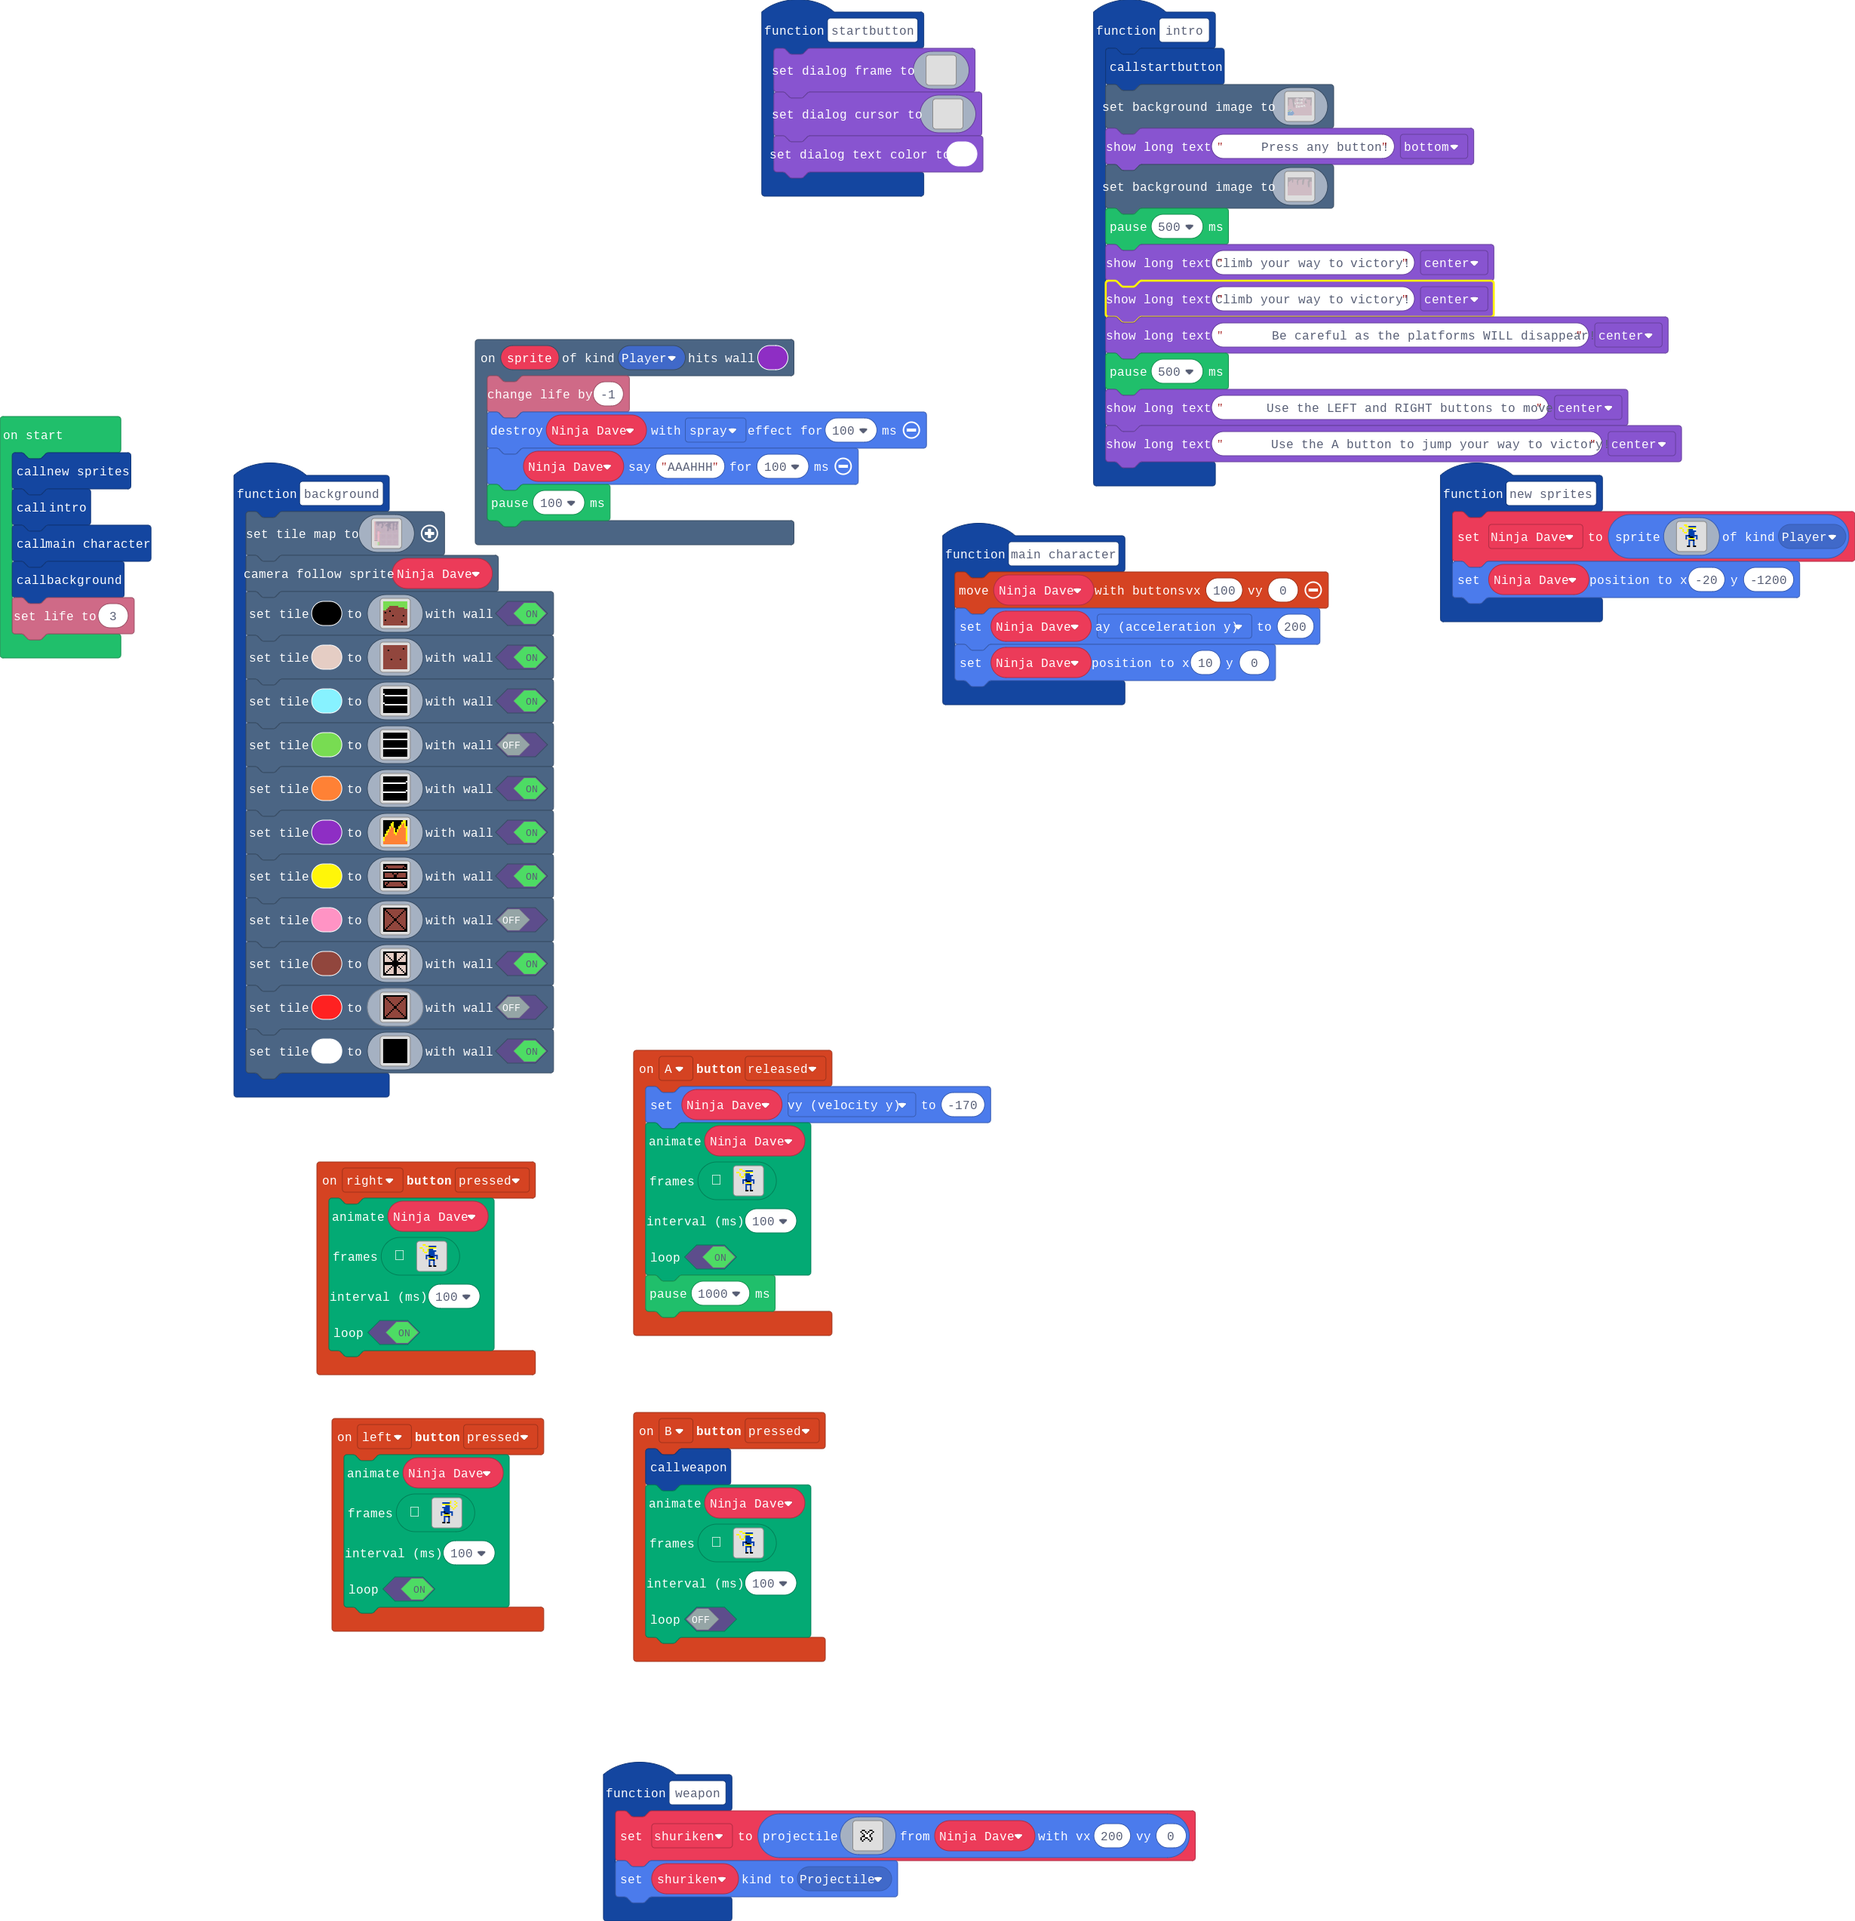
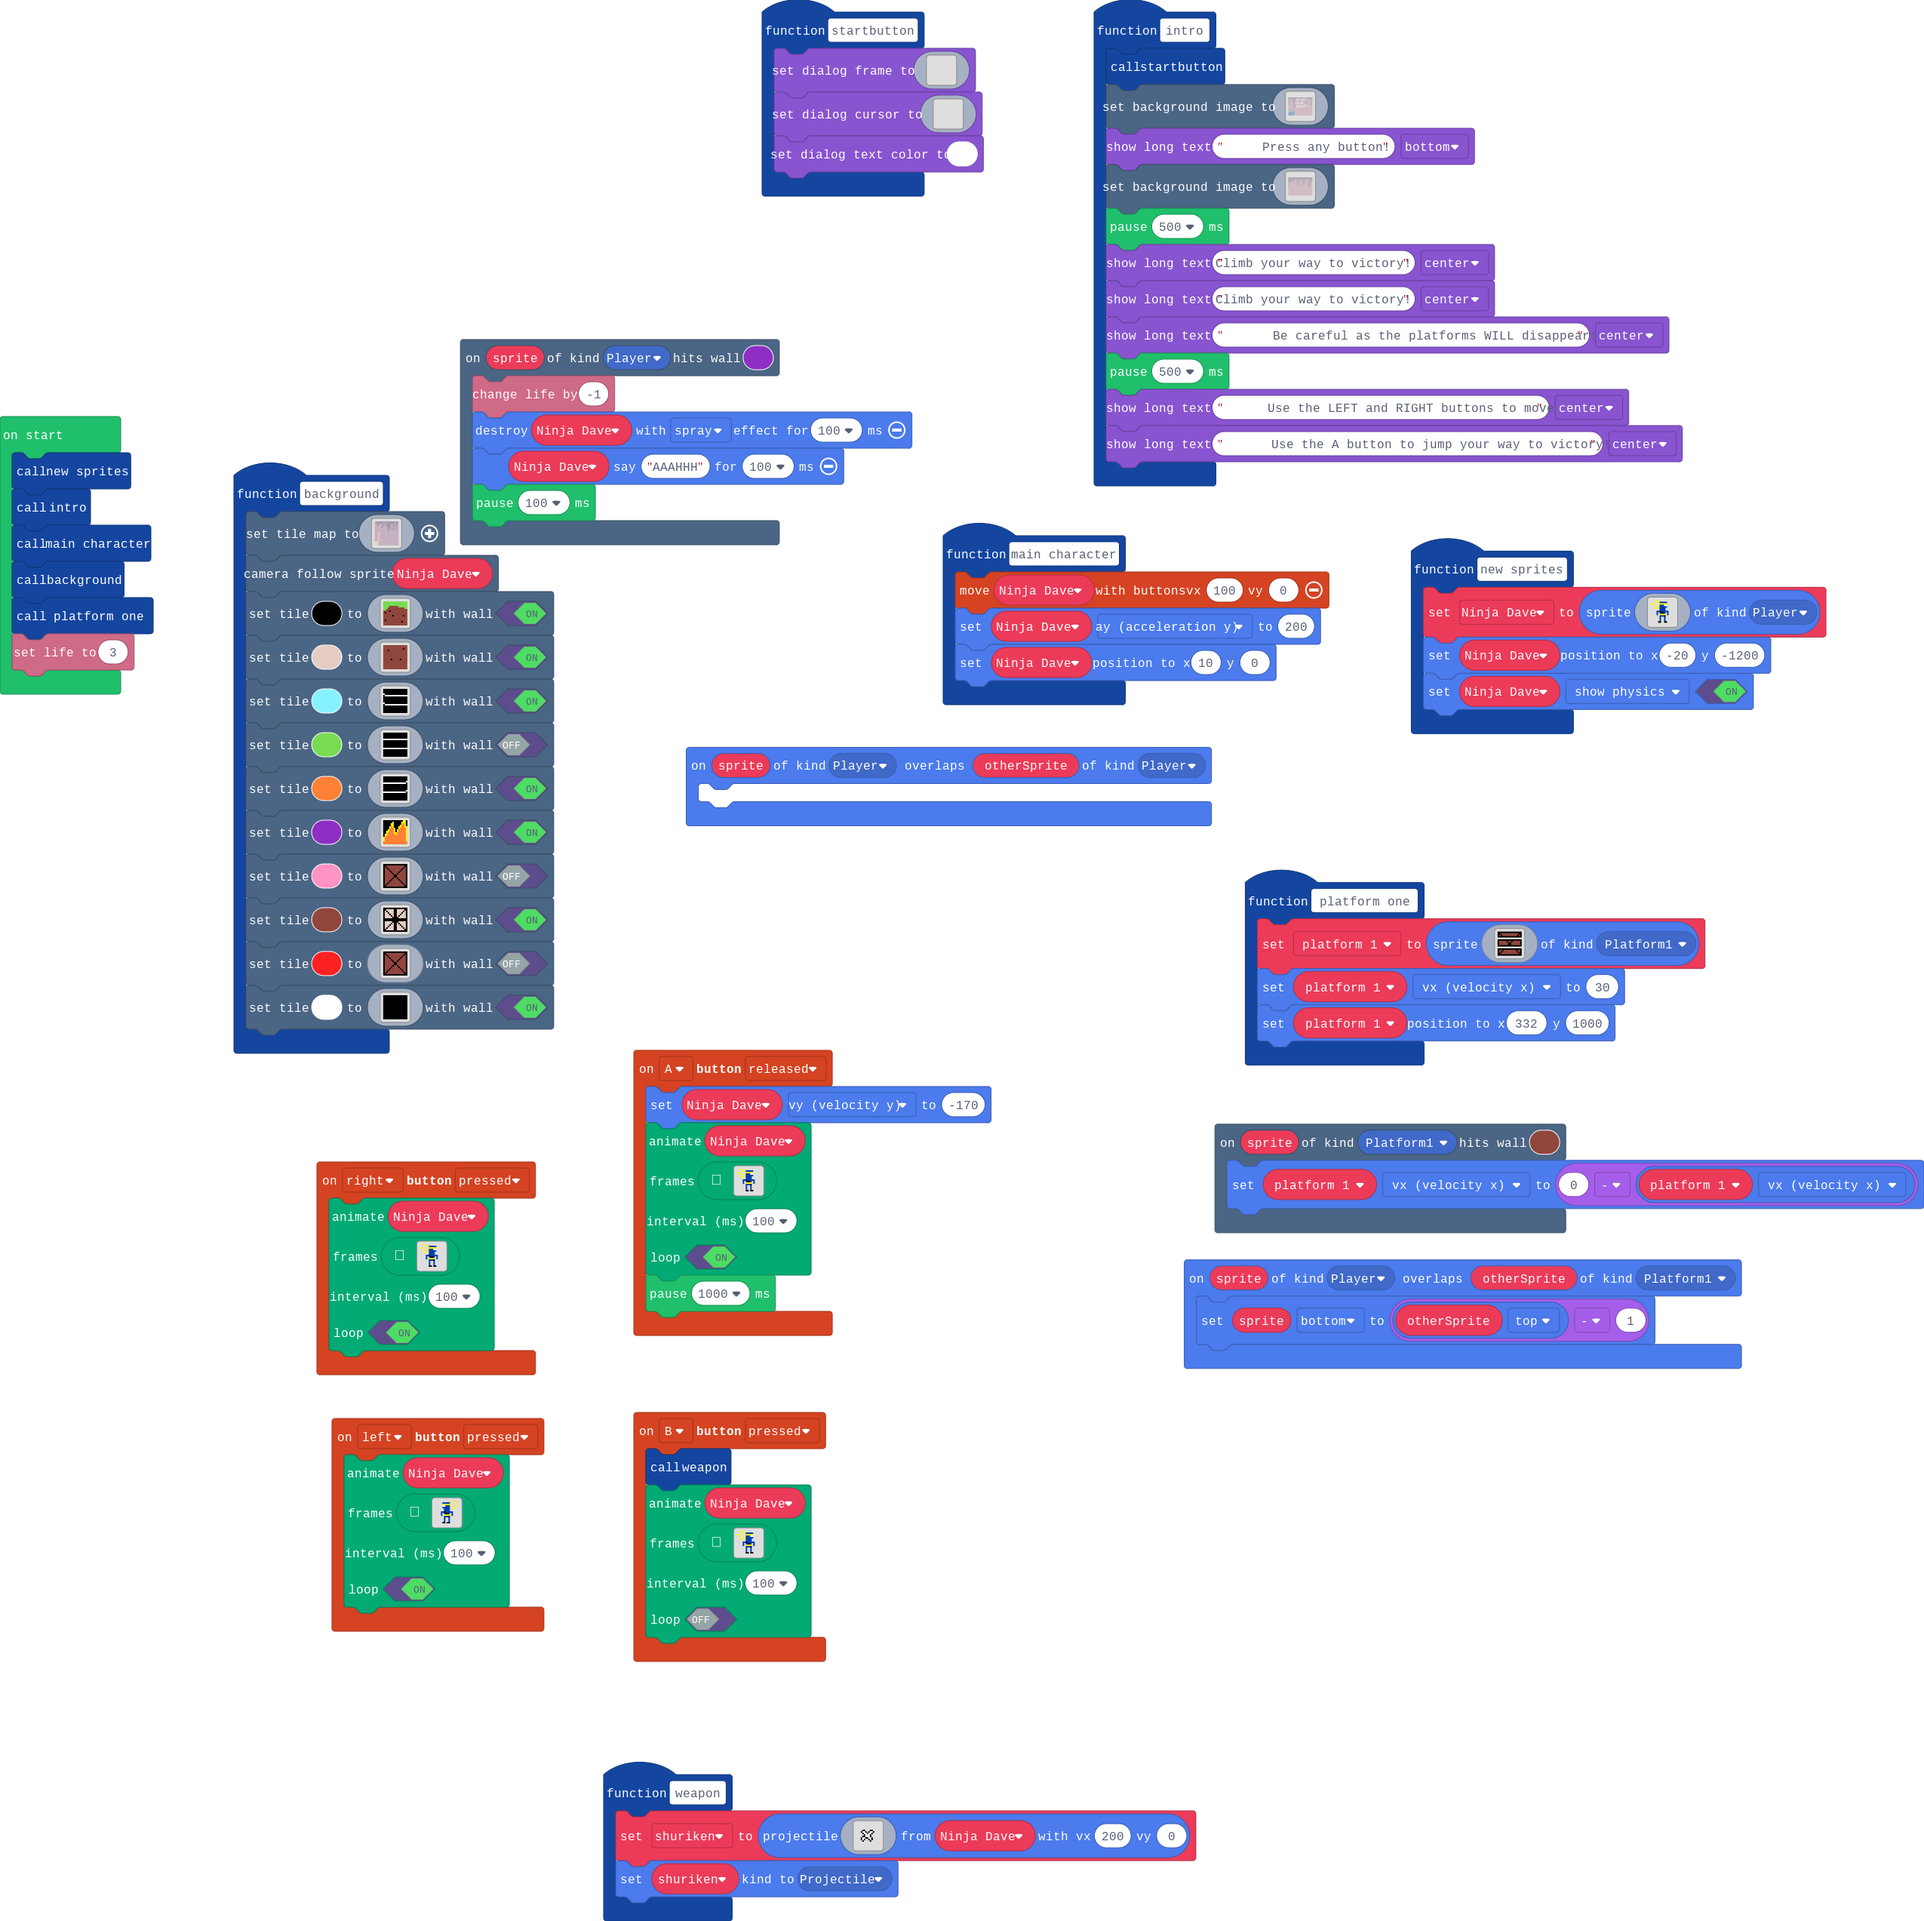
changes

diff --git a/main.ts b/main.ts
@@ -1,3 +1,31 @@
+namespace SpriteKind {
+    export const Platform1 = SpriteKind.create()
+}
+scene.onHitTile(SpriteKind.Platform1, 14, function (sprite) {
+    platform_1.vx = 0 - platform_1.vx
+})
+function platform_one () {
+    platform_1 = sprites.create(img`
+f f f f f f f f f f f f f f f f 
+f f e e e e e e e e e e e e f f 
+f e f e e e e e e e e e e f e f 
+f f f f f f f f f f f f f f f f 
+1 1 1 1 1 1 1 1 1 1 1 1 1 1 1 1 
+f f f f f f f f f f f f f f f f 
+f e e e e e f e e f e e e e e f 
+f e e e e e e f f e e e e e e f 
+f e e e e e e f f e e e e e e f 
+f f f f f f f f f f f f f f f f 
+1 1 1 1 1 1 1 1 1 1 1 1 1 1 1 1 
+f f f f f f f f f f f f f f f f 
+f e e f e e e e e e e e f e e f 
+f e f e e e e e e e e e e f e f 
+f f e e e e e e e e e e e e f f 
+f f f f f f f f f f f f f f f f 
+`, SpriteKind.Platform1)
+    platform_1.vx = 30
+    platform_1.setPosition(332, 1000)
+}
 function main_character () {
     controller.moveSprite(Ninja_Dave, 100, 0)
     Ninja_Dave.ay = 200
@@ -604,34 +632,34 @@ function background () {
 2 2 1 b b b b b b b b b e 3 3 3 3 3 3 3 3 3 3 3 3 3 3 7 b b b b b b b b b b b b b b b b b b b b b b b b b b b b b b b b b b b b b b b b b b b b b b b b b b b b b b b b b b b b b b b b b b b b b b b b 
 2 2 1 b b b b b b b b b e 3 3 3 3 3 3 3 3 e e e e e e 7 b b b b b b b b b b b b b b b b b b b b b b b b b b b b b b b b b b b b b b b b b b b b b b b b b b b b b b b b b b b b b b b b b b b b b b b b 
 2 2 1 b b b b b b b b b e 3 3 3 3 3 3 3 3 e b b b b b b b b b b b b b b b b b b b b b b b b b b b b b b b b b b b b b b b b b b b b b b b b b b b b b b b b b b b b b b b b b b b b b b b b b b b b b b 
-2 2 1 b b b b b b b b b e 3 3 3 3 3 3 3 5 e b b b b b b b b b b b b b b b b b b b b b b b b b b b b b b b b b b b b b b b b b b b b b b b b b b b b b b b b b b b b b b b b b b b b b b b b b b b b b b 
-2 2 1 b b b b b b b b b e 3 3 3 3 3 3 3 3 e b b b b b b b b b b b b b b b b b b b b b b b b b b b b b b b b b b b b b b b b b b b b b b b b b b b b b b b b b b b b b b b b b b b b b b b b b b b b b b 
-2 2 1 b b b b b b b b b e 5 5 3 3 3 3 3 3 e b b b b b b b b b b b b b b b b b b b b b b b b b b b b b b b b b b b b b b b b b b b b b b b b b b b b b b b b b b b b b b b b b b b b b b b b b b b b b b 
-2 2 1 b b b b b b b b b e 3 3 3 3 3 3 3 3 e b b b b b b b b b b b b b b b b b b b b b b b b b b b b b b b b b b b b b b b b b b b b b b b b b b b b b b b b b b b b b b b b b b b b b b b b b b b b b b 
-2 2 1 b b b b b b b b b e 3 3 3 3 3 3 3 3 e b b b b b b b b b b b b b b b b b b b b b b b b b b b b b b b b b b b b b b b b b b b b b b b b b b b b b b b b b b b b b b b b b b b b b b b b b b b b b b 
-2 2 1 b b b b b b b b b e 5 5 3 3 3 3 3 3 e b b b b b b b b b b b b b b b b b b b b b b b b b b b b b b b b b b b b b b b b b b b b b b b b b b b b b b b b b b b b b b b b b b b b b b b b b b b b b b 
 2 2 1 b b b b b b b b b e 3 3 3 3 3 3 3 3 e b b b b b b b b b b b b b b b b b b b b b b b b b b b b b b b b b b b b b b b b b b b b b b b b b b b b b b b b b b b b b b b b b b b b b b b b b b b b b b 
 2 2 1 b b b b b b b b b e 3 3 3 3 3 3 3 3 e b b b b b b b b b b b b b b b b b b b b b b b b b b b b b b b b b b b b b b b b b b b b b b b b b b b b b b b b b b b b b b b b b b b b b b b b b b b b b b 
 2 2 1 b b b b b b b b b e 3 3 3 3 3 3 3 3 e b b b b b b b b b b b b b b b b b b b b b b b b b b b b b b b b b b b b b b b b b b b b b b b b b b b b b b b b b b b b b b b b b b b b b b b b b b b b b b 
-2 2 1 b b b b b b b b b e 3 3 3 3 3 3 3 5 e b b b b b b b b b b b b b b b b b b b b b b b b b b b b b b b b b b b b b b b b b b b b b b b b b b b b b b b b b b b b b b b b b b b b b b b b b b b b b b 
-2 2 1 b b b b b b b b b e 3 3 3 3 3 3 3 3 e b b b b b b b b b b b b b b b b b b b b b b b b b b b b b b b b b b b b b b b b b b b b b b b b b b b b b b b b b b b b b b b b b b b b b b b b b b b b b b 
-2 2 1 b b b b b b b b b e 5 3 3 3 3 3 3 3 e b b b b b b b b b b b b b b b b b b b b b b b b b b b b b b b b b b b b b b b b b b b b b b b b b b b b b b b b b b b b b b b b b b b b b b b b b b b b b b 
-2 2 1 b b b b b b b b b e 3 3 3 3 3 3 3 3 e b b b b b b b b b b b b b b b b b b b b b b b b b b b b b b b b b b b b b b b b b b b b b b b b b b b b b b b b b b b b b b b b b b b b b b b b b b b b b b 
-2 2 1 b b b b b b b b b e 3 3 3 3 3 3 3 3 e b b b b b b b b b b b b b b b b b b b b b b b b b b b b b b b b b b b b b b b b b b b b b b b b b b b b b b b b b b b b b b b b b b b b b b b b b b b b b b 
-2 2 1 b b b b b b b b b e 3 3 3 3 3 3 3 5 e b b b b b b b b b b b b b b b b b b b b b b b b b b b b b b b b b b b b b b b b b b b b b b b b b b b b b b b b b b b b b b b b b b b b b b b b b b b b b b 
 2 2 1 b b b b b b b b b e 3 3 3 3 3 3 3 3 e b b b b b b b b b b b b b b b b b b b b b b b b b b b b b b b b b b b b b b b b b b b b b b b b b b b b b b b b b b b b b b b b b b b b b b b b b b b b b b 
 2 2 1 b b b b b b b b b e 3 3 3 3 3 3 3 3 e b b b b b b b b b b b b b b b b b b b b b b b b b b b b b b b b b b b b b b b b b b b b b b b b b b b b b b b b b b b b b b b b b b b b b b b b b b b b b b 
 2 2 1 b b b b b b b b b e 3 3 3 3 3 3 3 3 e b b b b b b b b b b b b b b b b b b b b b b b b b b b b b b b b b b b b b b b b b b b b b b b b b b b b b b b b b b b b b b b b b b b b b b b b b b b b b b 
-2 2 1 b b b b b b b b b e 5 5 5 3 3 3 3 3 e b b b b b b b b b b b b b b b b b b b b b b b b b b b b b b b b b b b b b b b b b b b b b b b b b b b b b b b b b b b b b b b b b b b b b b b b b b b b b b 
 2 2 1 b b b b b b b b b e 3 3 3 3 3 3 3 3 e b b b b b b b b b b b b b b b b b b b b b b b b b b b b b b b b b b b b b b b b b b b b b b b b b b b b b b b b b b b b b b b b b b b b b b b b b b b b b b 
 2 2 1 b b b b b b b b b e 3 3 3 3 3 3 3 3 e b b b b b b b b b b b b b b b b b b b b b b b b b b b b b b b b b b b b b b b b b b b b b b b b b b b b b b b b b b b b b b b b b b b b b b b b b b b b b b 
 2 2 1 b b b b b b b b b e 3 3 3 3 3 3 3 3 e b b b b b b b b b b b b b b b b b b b b b b b b b b b b b b b b b b b b b b b b b b b b b b b b b b b b b b b b b b b b b b b b b b b b b b b b b b b b b b 
-2 2 1 b b b b b b b b b e 3 3 3 3 3 3 3 5 e b b b b b b b b b b b b b b b b b b b b b b b b b b b b b b b b b b b b b b b b b b b b b b b b b b b b b b b b b b b b b b b b b b b b b b b b b b b b b b 
-2 2 1 b b b b b b b b b e 3 3 3 3 3 3 3 3 e b b b b b b b b b b b b b b b b b b b b b b b b b b b b b b b b b b b b b b b b b b b b b b b b b b b b b b b b b b b b b b b b b b b b b b b b b b b b b b 
-2 2 1 b b b b b b b b b e 5 3 3 3 3 3 3 3 e b b b b b b b b b b b b b b b b b b b b b b b b b b b b b b b b b b b b b b b b b b b b b b b b b b b b b b b b b b b b b b b b b b b b b b b b b b b b b b 
 2 2 1 b b b b b b b b b e 3 3 3 3 3 3 3 3 e b b b b b b b b b b b b b b b b b b b b b b b b b b b b b b b b b b b b b b b b b b b b b b b b b b b b b b b b b b b b b b b b b b b b b b b b b b b b b b 
 2 2 1 b b b b b b b b b e 3 3 3 3 3 3 3 3 e b b b b b b b b b b b b b b b b b b b b b b b b b b b b b b b b b b b b b b b b b b b b b b b b b b b b b b b b b b b b b b b b b b b b b b b b b b b b b b 
-2 2 b b b b b b b b b b b 3 3 3 3 3 3 5 5 e b b b b b b b b b b b b b b b b b b b b b b b b b b b b b b b b b b b b b b b b b b b b b b b b b b b b b b b b b b b b b b b b b b b b b b b b b b b b b b 
+2 2 1 b b b b b b b b b e 3 3 3 3 3 3 3 3 e b b b b b b b b b b b b b b b b b b b b b b b b b b b b b b b b b b b b b b b b b b b b b b b b b b b b b b b b b b b b b b b b b b b b b b b b b b b b b b 
+2 2 1 b b b b b b b b b e 3 3 3 3 3 3 3 3 e b b b b b b b b b b b b b b b b b b b b b b b b b b b b b b b b b b b b b b b b b b b b b b b b b b b b b b b b b b b b b b b b b b b b b b b b b b b b b b 
+2 2 1 b b b b b b b b b e 3 3 3 3 3 3 3 3 e b b b b b b b b b b b b b b b b b b b b b b b b b b b b b b b b b b b b b b b b b b b b b b b b b b b b b b b b b b b b b b b b b b b b b b b b b b b b b b 
+2 2 1 b b b b b b b b b e 3 3 3 3 3 3 3 3 e b b b b b b b b b b b b b b b b b b b b b b b b b b b b b b b b b b b b b b b b b b b b b b b b b b b b b b b b b b b b b b b b b b b b b b b b b b b b b b 
+2 2 1 b b b b b b b b b e 3 3 3 3 3 3 3 3 e b b b b b b b b b b b b b b b b b b b b b b b b b b b b b b b b b b b b b b b b b b b b b b b b b b b b b b b b b b b b b b b b b b b b b b b b b b b b b b 
+2 2 1 b b b b b b b b b e 3 3 3 3 3 3 3 3 e b b b b b b b b b b b b b b b b b b b b b b b b b b b b b b b b b b b b b b b b b b b b b b b b b b b b b b b b b b b b b b b b b b b b b b b b b b b b b b 
+2 2 1 b b b b b b b b b e 3 3 3 3 3 3 3 3 e b b b b b b b b b b b b b b b b b b b b b b b b b b b b b b b b b b b b b b b b b b b b b b b b b b b b b b b b b b b b b b b b b b b b b b b b b b b b b b 
+2 2 1 b b b b b b b b b e 3 3 3 3 3 3 3 3 e b b b b b b b b b b b b b b b b b b b b b b b b b b b b b b b b b b b b b b b b b b b b b b b b b b b b b b b b b b b b b b b b b b b b b b b b b b b b b b 
+2 2 1 b b b b b b b b b e 3 3 3 3 3 3 3 3 e b b b b b b b b b b b b b b b b b b b b b b b b b b b b b b b b b b b b b b b b b b b b b b b b b b b b b b b b b b b b b b b b b b b b b b b b b b b b b b 
+2 2 1 b b b b b b b b b e 3 3 3 3 3 3 3 3 e b b b b b b b b b b b b b b b b b b b b b b b b b b b b b b b b b b b b b b b b b b b b b b b b b b b b b b b b b b b b b b b b b b b b b b b b b b b b b b 
+2 2 1 b b b b b b b b b e 3 3 3 3 3 3 3 3 e b b b b b b b b b b b b b b b b b b b b b b b b b b b b b b b b b b b b b b b b b b b b b b b b b b b b b b b b b b b b b b b b b b b b b b b b b b b b b b 
+2 2 1 b b b b b b b b b e 3 3 3 3 3 3 3 3 e b b b b b b b b b b b b b b b b b b b b b b b b b b b b b b b b b b b b b b b b b b b b b b b b b b b b b b b b b b b b b b b b b b b b b b b b b b b b b b 
+2 2 1 b b b b b b b b b e 3 3 3 3 3 3 3 3 e b b b b b b b b b b b b b b b b b b b b b b b b b b b b b b b b b b b b b b b b b b b b b b b b b b b b b b b b b b b b b b b b b b b b b b b b b b b b b b 
+2 2 1 b b b b b b b b b e 3 3 3 3 3 3 3 3 e b b b b b b b b b b b b b b b b b b b b b b b b b b b b b b b b b b b b b b b b b b b b b b b b b b b b b b b b b b b b b b b b b b b b b b b b b b b b b b 
+2 2 1 b b b b b b b b b e 3 3 3 3 3 3 3 3 e b b b b b b b b b b b b b b b b b b b b b b b b b b b b b b b b b b b b b b b b b b b b b b b b b b b b b b b b b b b b b b b b b b b b b b b b b b b b b b 
+2 2 1 b b b b b b b b b e 3 3 3 3 3 3 3 3 e b b b b b b b b b b b b b b b b b b b b b b b b b b b b b b b b b b b b b b b b b b b b b b b b b b b b b b b b b b b b b b b b b b b b b b b b b b b b b b 
+2 2 b b b b b b b b b b b 3 3 3 3 3 3 3 3 e b b b b b b b b b b b b b b b b b b b b b b b b b b b b b b b b b b b b b b b b b b b b b b b b b b b b b b b b b b b b b b b b b b b b b b b b b b b b b b 
 2 2 b b b b b b b b b b b 3 3 3 3 3 3 3 3 e b b b b b b b b b b b b b b b b b b b b b b b b b b b b b b b b b b b b b b b b b b b b b b b b b b b b b b b b b b b b b b b b b b b b b b b b b b b b b b 
 f f f f f f f f f f f f f 3 3 3 3 3 3 3 3 e b b b b b b b b b b b b b b b b b b b b b b b b b b b b b b b b b b b b b b b b b b b b b b b b b b b b b b b b b b b b b b b b b b b b b b b b b b b b b b 
 d d d d d d d d d d d d d 3 3 3 3 3 3 3 3 e b b b b b b b b b b b b b b b b b b b b b b b b b b b b b b b b b b b b b b b b b b b b b b b b b b b b b b b b b b b b b b b b b b b b b b b b b b b b b b 
@@ -762,24 +790,6 @@ f 5 4 4 4 4 4 4 4 4 4 4 4 4 4 5
 5 4 4 4 4 4 4 4 4 4 4 4 4 4 4 5 
 4 4 4 4 4 4 4 4 4 4 4 4 4 4 4 4 
 4 4 4 4 4 4 4 4 4 4 4 4 4 4 4 4 
-`, true)
-    scene.setTile(5, img`
-f f f f f f f f f f f f f f f f 
-f f e e e e e e e e e e e e f f 
-f e f e e e e e e e e e e f e f 
-f f f f f f f f f f f f f f f f 
-1 1 1 1 1 1 1 1 1 1 1 1 1 1 1 1 
-f f f f f f f f f f f f f f f f 
-f e e e e e f e e f e e e e e f 
-f e e e e e e f f e e e e e e f 
-f e e e e e e f f e e e e e e f 
-f f f f f f f f f f f f f f f f 
-1 1 1 1 1 1 1 1 1 1 1 1 1 1 1 1 
-f f f f f f f f f f f f f f f f 
-f e e f e e e e e e e e f e e f 
-f e f e e e e e e e e e e f e f 
-f f e e e e e e e e e e e e f f 
-f f f f f f f f f f f f f f f f 
 `, true)
     scene.setTile(3, img`
 f f f f f f f f f f f f f f f f 
@@ -1011,7 +1021,11 @@ function new_sprites () {
 . . . . . . . . . . . . . . . . 
 `, SpriteKind.Player)
     Ninja_Dave.setPosition(-20, -1200)
+    Ninja_Dave.setFlag(SpriteFlag.ShowPhysics, true)
 }
+sprites.onOverlap(SpriteKind.Player, SpriteKind.Player, function (sprite, otherSprite) {
+	
+})
 controller.A.onEvent(ControllerButtonEvent.Released, function () {
     Ninja_Dave.vy = -170
     animation.runImageAnimation(
@@ -1192,10 +1206,15 @@ controller.A.onEvent(ControllerButtonEvent.Released, function () {
     )
     pause(1000)
 })
+sprites.onOverlap(SpriteKind.Player, SpriteKind.Platform1, function (sprite, otherSprite) {
+    sprite.bottom = otherSprite.top - 1
+})
 let shuriken: Sprite = null
 let Ninja_Dave: Sprite = null
+let platform_1: Sprite = null
 new_sprites()
 intro()
 main_character()
 background()
+platform_one()
 info.setLife(3)
